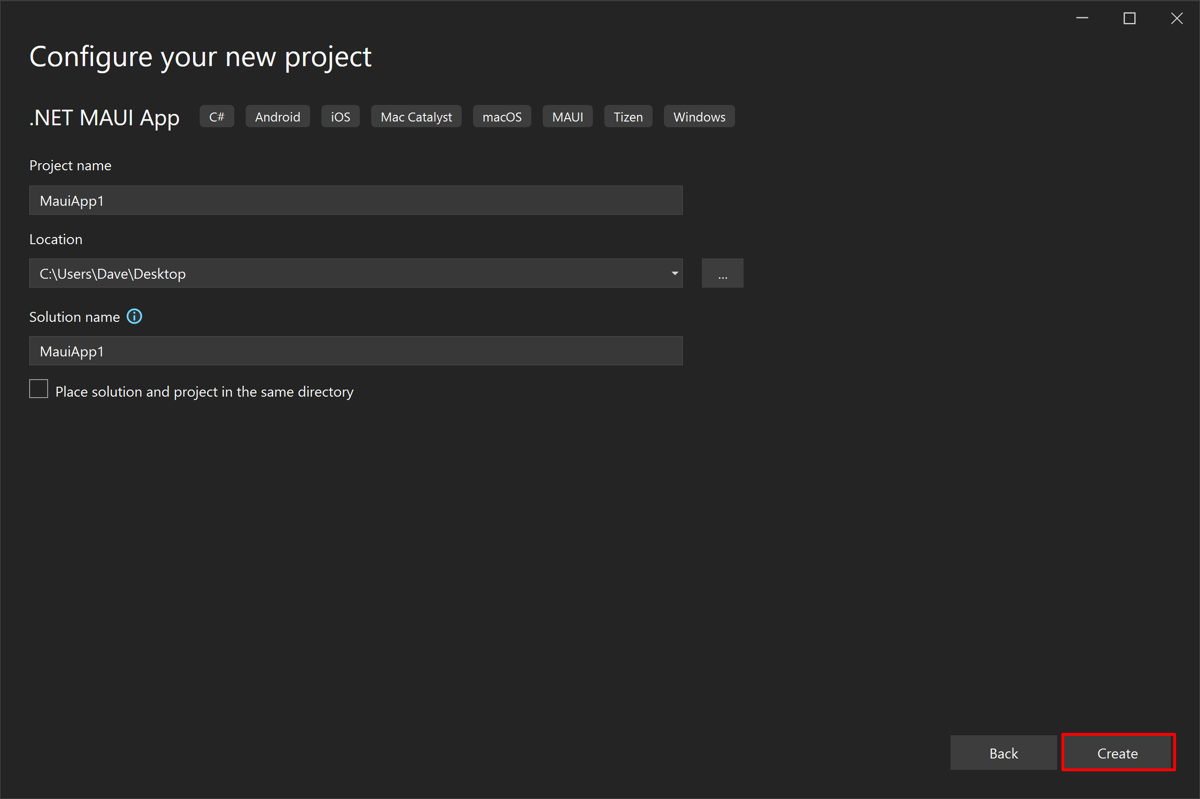
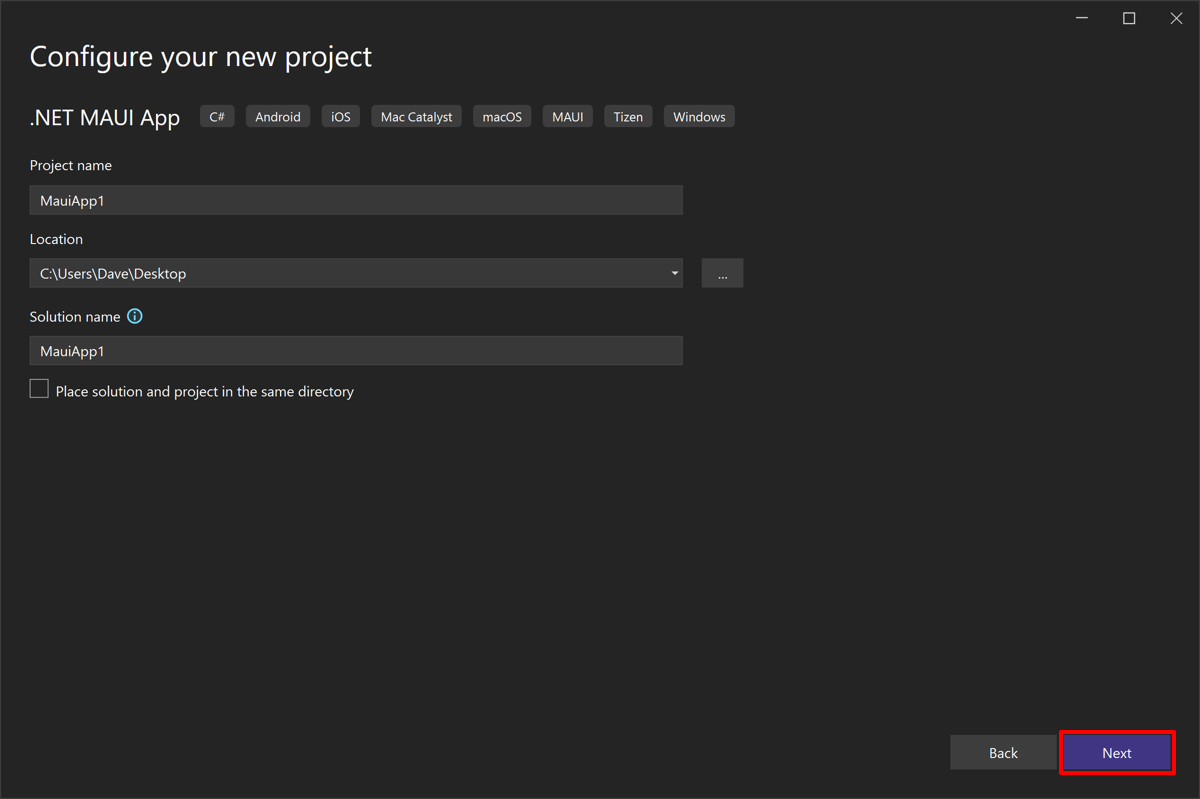
Updates for 17.3 P2

diff --git a/docs/get-started/first-app.md b/docs/get-started/first-app.md
@@ -1,7 +1,7 @@
 ---
 title: "Build your first .NET MAUI app"
 description: "Learn how to create and run your first .NET MAUI app in Visual Studio 2022 on Windows."
-ms.date: 05/24/2022
+ms.date: 06/15/2022
 ms.custom: updateeachrelease
 zone_pivot_groups: devices-deployment
 ---
@@ -94,9 +94,13 @@ In this tutorial, you'll create your first .NET MAUI app in Visual Studio 2022 1
     > [!NOTE]
     > The .NET MAUI templates might not appear in Visual Studio if you also have .NET 7 Preview installed. For more information, see [.NET MAUI templates do not appear in Visual Studio](https://github.com/dotnet/maui/wiki/Known-Issues#net-maui-templates-do-not-appear-in-visual-studio).
 
-01. In the **Configure your new project** window, name your project, choose a suitable location for it, and click the **Create** button:
+01. In the **Configure your new project** window, name your project, choose a suitable location for it, and click the **Next** button:
 
     :::image type="content" source="media/first-app/configure-project.png" alt-text="Configure the project.":::
+
+01. In the **Additional information** window, click the **Create** button:
+
+    :::image type="content" source="media/first-app/additional-information.png" alt-text="Additional information.":::
 
 01. Wait for the project to be created, and its dependencies to be restored:
 
